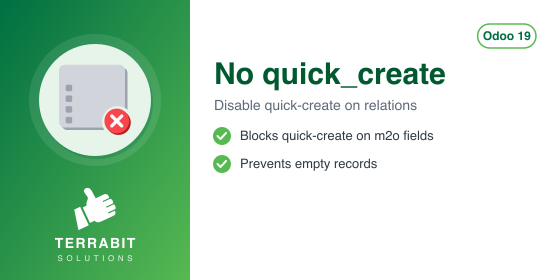
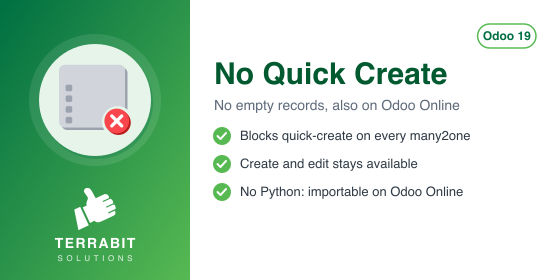
[IMP] deltatech_no_quick_create: data-only module, importable on Odoo Online
The module has only one JavaScript file; the empty __init__.py files
(module and tests/) were removed, so it has no Python at all and loads
on Odoo Online (Custom plan) from Apps > Import Module. Tested on a
clean Odoo 19 database without the deltatech addons path: the zip
imports, the asset is registered and quick-create is gone from the
many2one dropdown, while "Create and edit..." stays.

Odoo Apps does not mark data-only modules as available on Odoo Online,
so the name becomes "No Quick Create (importable, Odoo Online)", and the
summary, the banner, DESCRIPTION.md and index.html (tb-gen-index v1.8.0:
hosting badge "Odoo Online • Odoo.sh • On-premise") say it.
oca-checks-odoo-module excludes the module, as for
deltatech_report_layout.

Assisted-by: Claude Opus 5.5

diff --git a/deltatech_no_quick_create/static/description/index.html b/deltatech_no_quick_create/static/description/index.html
@@ -2,14 +2,14 @@
 <!-- tb-gen v1 -->
 <div class="rounded-4 shadow px-4 py-4 mt-2 mb-4" style="background-color:#006F42;color:#ffffff;">
   <div class="d-flex flex-wrap align-items-center">
-    <span class="d-inline-block rounded-4 p-2 flex-shrink-0 my-2" style="background-color:#ffffff;margin-right:24px;"><img src="icon.png" alt="No quick_create" style="width:80px;height:80px;border:none;"/></span>
+    <span class="d-inline-block rounded-4 p-2 flex-shrink-0 my-2" style="background-color:#ffffff;margin-right:24px;"><img src="icon.png" alt="No Quick Create" style="width:80px;height:80px;border:none;"/></span>
     <div class="flex-grow-1 my-2" style="width:320px;min-width:0;margin-right:24px;">
-      <h1 class="fw-bold mb-2" style="color:#ffffff;font-size:36px;line-height:1.1;letter-spacing:-0.5px;border:none;">No quick_create</h1>
-      <p class="mb-3" style="font-size:18px;color:#cdeccf;line-height:1.45;">Disable quick-create on relations</p>
+      <h1 class="fw-bold mb-2" style="color:#ffffff;font-size:36px;line-height:1.1;letter-spacing:-0.5px;border:none;">No Quick Create</h1>
+      <p class="mb-3" style="font-size:18px;color:#cdeccf;line-height:1.45;">No empty records, also on Odoo Online</p>
       <div>
         <span class="d-inline-block rounded-pill fw-bold me-2 mb-2" style="background-color:#ffffff;border:1px solid #ffffff;color:#006F42;padding:6px 14px;font-size:12px;">Odoo 19.0</span>
         <span class="d-inline-block rounded-pill fw-semibold me-2 mb-2" style="border:1px solid #8fd1ad;color:#ffffff;padding:6px 14px;font-size:12px;">Tools</span>
-        <span class="d-inline-block rounded-pill fw-semibold me-2 mb-2" style="border:1px solid #8fd1ad;color:#ffffff;padding:6px 14px;font-size:12px;">Odoo.sh &bull; On-premise</span>
+        <span class="d-inline-block rounded-pill fw-semibold me-2 mb-2" style="border:1px solid #8fd1ad;color:#ffffff;padding:6px 14px;font-size:12px;">Odoo Online &bull; Odoo.sh &bull; On-premise</span>
         <span class="d-inline-block rounded-pill fw-semibold me-2 mb-2" style="border:1px dashed #8fd1ad;color:#ffffff;padding:6px 14px;font-size:12px;">OPL-1</span>
       </div>
     </div>
@@ -43,10 +43,24 @@
 <p class="mb-4" style="font-size:16px;line-height:1.65;max-width:780px;">Features:</p>
 <ul>
 <li>disables the option to create new items without editing them, for prevention of empty products, contacts, etc.</li>
+<li>applies to every many2one widget (plain, avatar, barcode, reference); <strong>Create and edit...</strong> stays available.</li>
 </ul>
+<h1 class="fw-bold mt-4 mb-3" style="border:none;border-left:4px solid #57B952;padding-left:16px;font-size:24px;letter-spacing:-0.3px;line-height:1.2;">Odoo Online</h1>
+<p>The module contains no Python code, only one JavaScript file. Besides Odoo.sh and
+on-premise installations, it can be used on Odoo Online (Custom plan): download the zip
+and load it from <strong>Apps &gt; Import Module</strong>.</p>
 </div>
 <div class="tab-pane fade py-2" id="tb-panel-versions" style="font-size:16px;line-height:1.65;color:#212529;font-weight:400;">
 <h2 class="fw-bold mb-3" style="border:none;border-left:4px solid #57B952;padding-left:16px;font-size:24px;letter-spacing:-0.3px;line-height:1.2;">Versions</h2>
+<h2 class="fw-bold mt-4 mb-3" style="border:none;border-left:4px solid #57B952;padding-left:16px;font-size:24px;letter-spacing:-0.3px;line-height:1.2;">19.0.2.1.0 (2026-11-08)</h2>
+<ul>
+<li>Data-only module: the empty <code class="border rounded px-2" style="font-family:ui-monospace,SFMono-Regular,Menlo,Consolas,monospace;font-size:13px;">__init__.py</code> files (module and <code class="border rounded px-2" style="font-family:ui-monospace,SFMono-Regular,Menlo,Consolas,monospace;font-size:13px;">tests/</code>) were removed, so the
+  module has no Python code at all. It can be installed on Odoo Online (Custom plan) as a zip
+  from Apps &gt; Import Module, as well as on Odoo.sh and on-premise.</li>
+<li>Odoo Apps does not mark data-only modules as available on Odoo Online, so the module name,
+  the summary, the banner and the Apps Store page now say it: "No Quick Create (importable,
+  Odoo Online)".</li>
+</ul>
 <h2 class="fw-bold mt-4 mb-3" style="border:none;border-left:4px solid #57B952;padding-left:16px;font-size:24px;letter-spacing:-0.3px;line-height:1.2;">19.0.2.0.2 (2026-09-29)</h2>
 <ul>
 <li>Own module icon, instead of the generic gears it had.</li>
@@ -247,7 +261,7 @@
               <span class="d-block" style="font-size:13px;color:#3d4752;">Accounting &amp; Finance</span>
             </span>
           </div>
-          <p class="mb-0" style="font-size:15px;line-height:1.45;color:#3d4752;">Analytic lines enhancements</p>
+          <p class="mb-0" style="font-size:15px;line-height:1.45;color:#3d4752;">Analytic distribution by sales team and percentage split of analytic amounts</p>
         </div>
       </a>
     </div>

diff --git a/deltatech_no_quick_create/__manifest__.py b/deltatech_no_quick_create/__manifest__.py
@@ -3,9 +3,9 @@
 
 
 {
-    "name": "No quick_create",
-    "summary": "Disable quick create in many2one fields to prevent empty products and contacts",
-    "version": "19.0.2.0.2",
+    "name": "No Quick Create (importable, Odoo Online)",
+    "summary": "Disable quick create in many2one fields; data-only, importable on Odoo Online",
+    "version": "19.0.2.1.0",
     "author": "Terrabit, Dorin Hongu",
     "website": "https://www.terrabit.ro",
     "category": "Tools",

diff --git a/deltatech_no_quick_create/readme/HISTORY.md b/deltatech_no_quick_create/readme/HISTORY.md
@@ -1,3 +1,12 @@
+## 19.0.2.1.0 (2026-11-08)
+
+- Data-only module: the empty `__init__.py` files (module and `tests/`) were removed, so the
+  module has no Python code at all. It can be installed on Odoo Online (Custom plan) as a zip
+  from Apps > Import Module, as well as on Odoo.sh and on-premise.
+- Odoo Apps does not mark data-only modules as available on Odoo Online, so the module name,
+  the summary, the banner and the Apps Store page now say it: "No Quick Create (importable,
+  Odoo Online)".
+
 ## 19.0.2.0.2 (2026-09-29)
 
 - Own module icon, instead of the generic gears it had.

diff --git a/deltatech_no_quick_create/readme/DESCRIPTION.md b/deltatech_no_quick_create/readme/DESCRIPTION.md
@@ -1,3 +1,11 @@
 Features:
 
 - disables the option to create new items without editing them, for prevention of empty products, contacts, etc.
+- applies to every many2one widget (plain, avatar, barcode, reference); **Create and edit...** stays available.
+
+Odoo Online
+===========
+
+The module contains no Python code, only one JavaScript file. Besides Odoo.sh and
+on-premise installations, it can be used on Odoo Online (Custom plan): download the zip
+and load it from **Apps > Import Module**.
